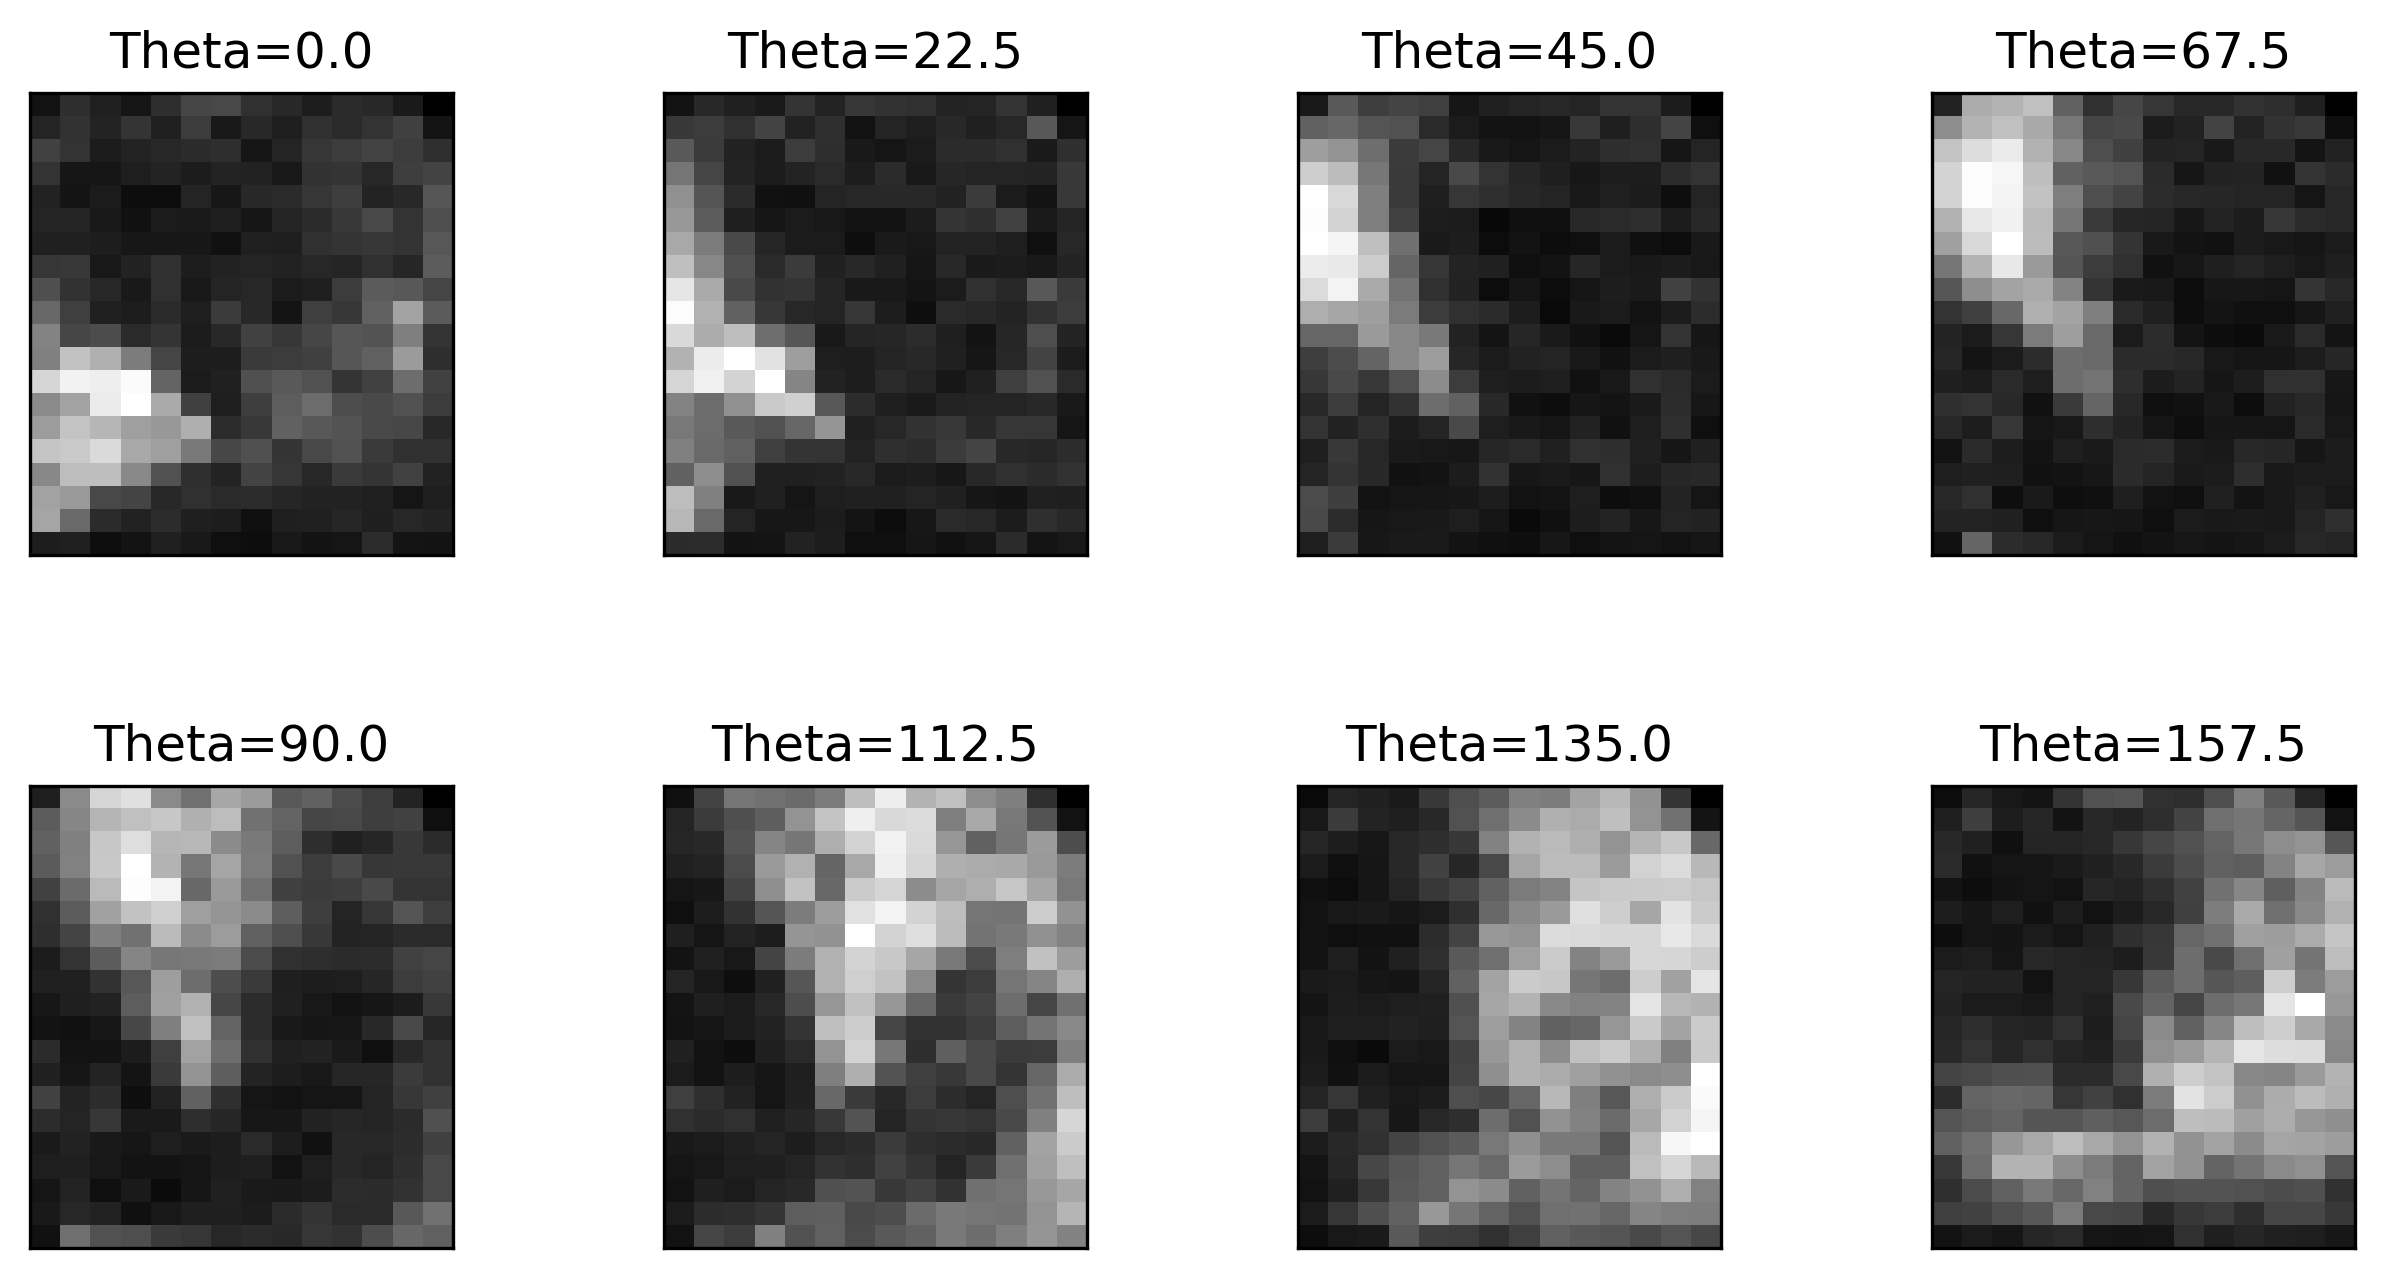
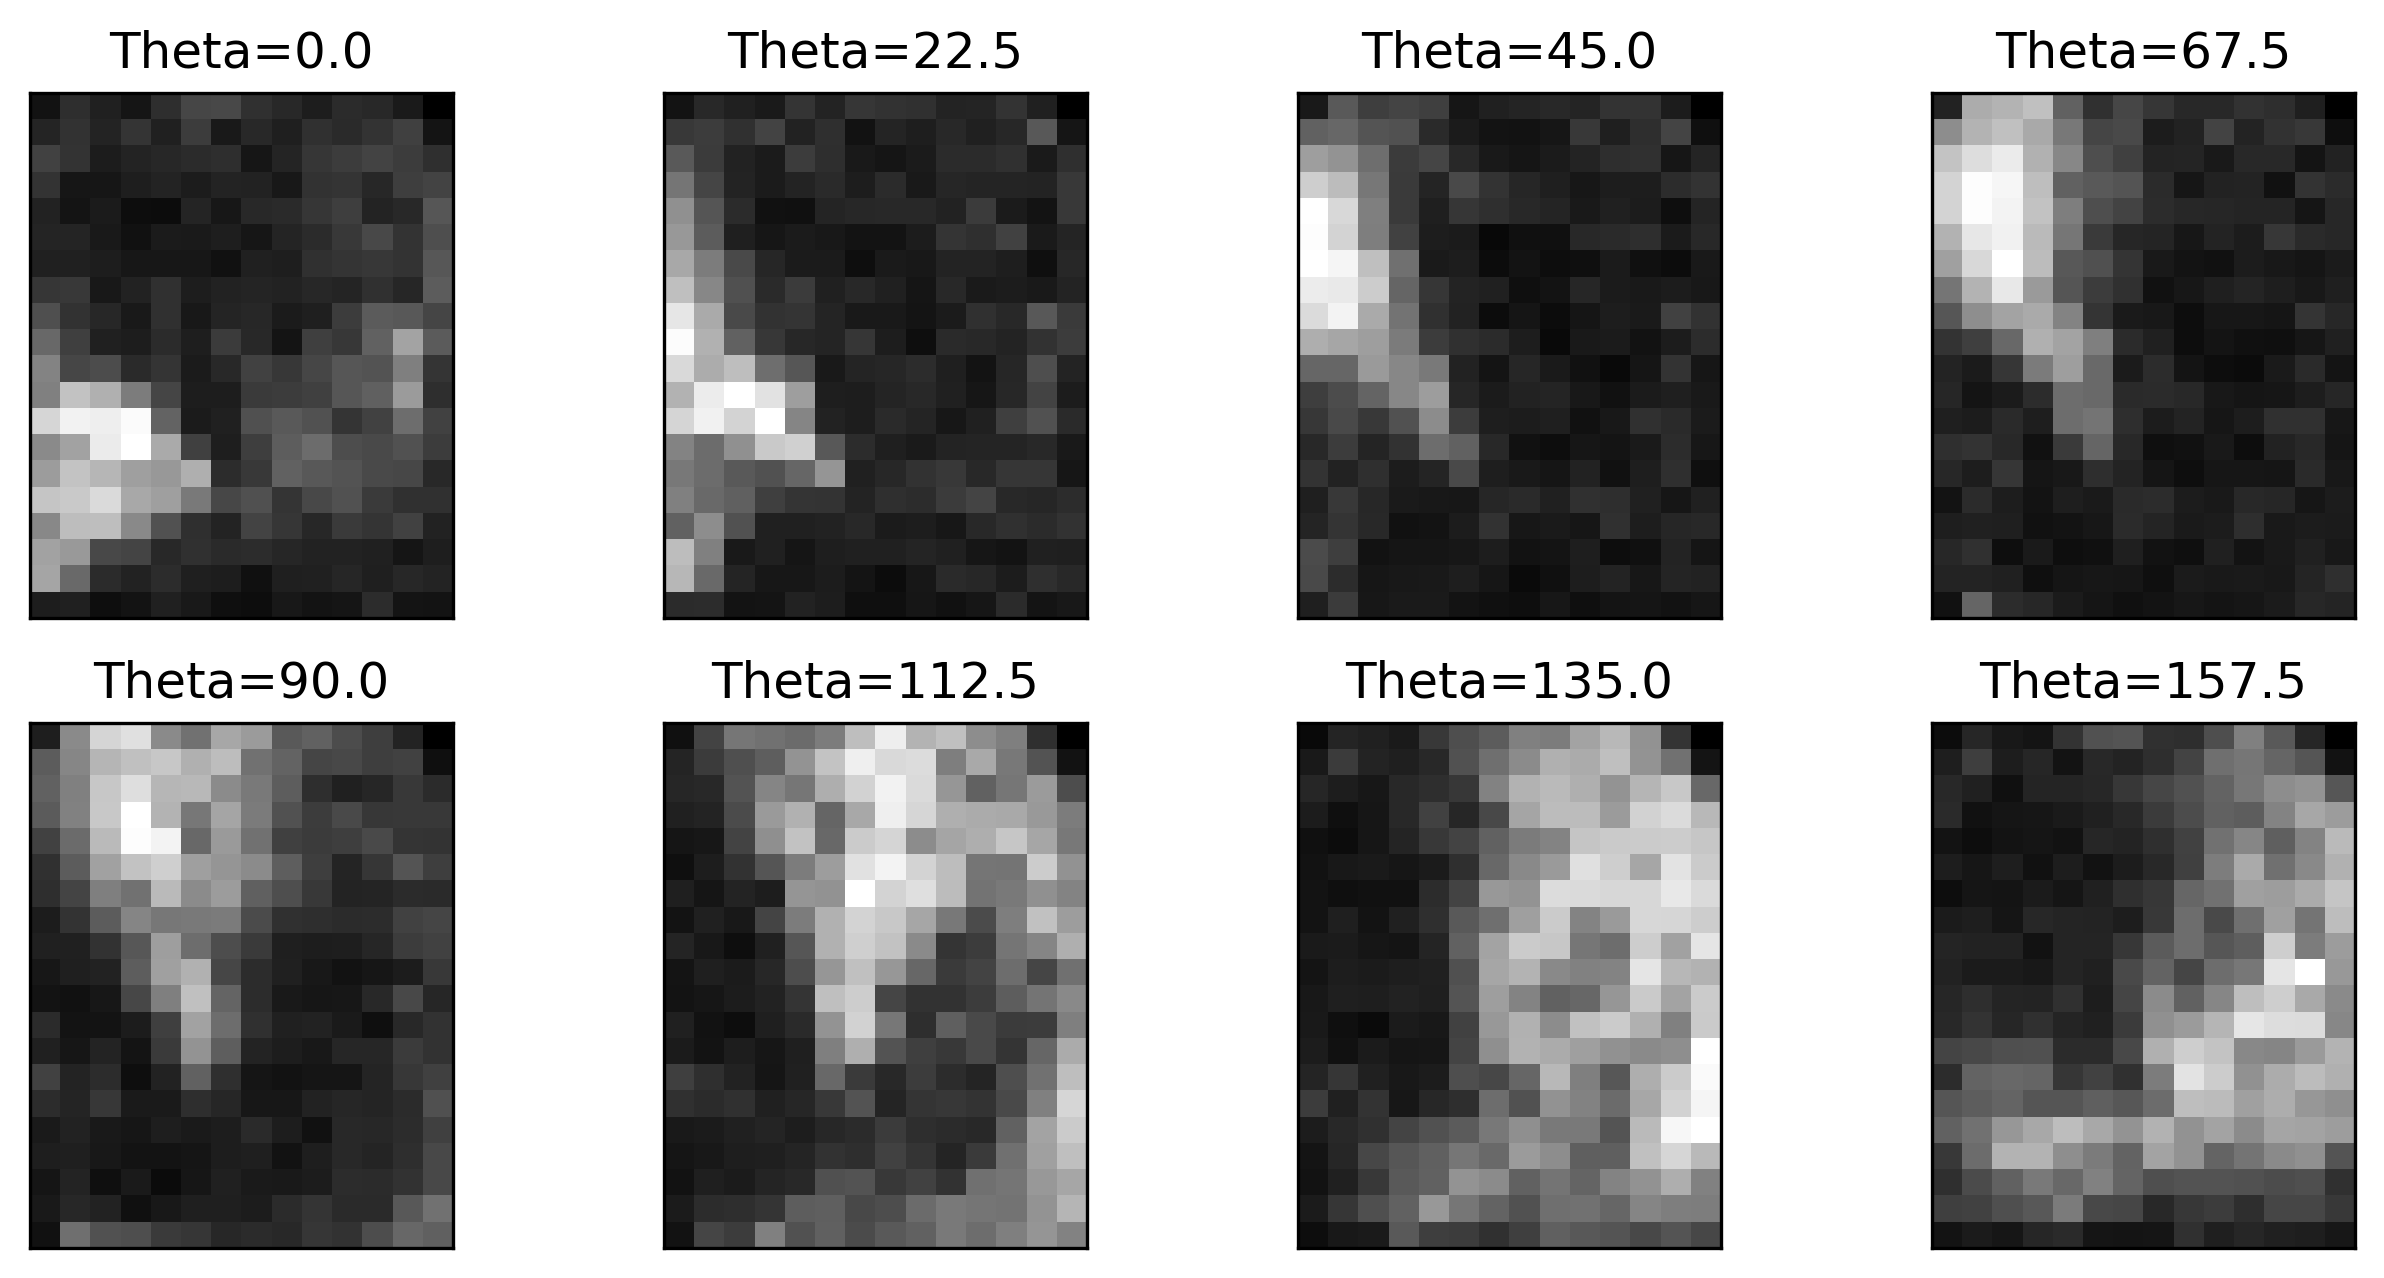
Fixed AAD Visualization

diff --git a/main.py b/main.py
@@ -259,7 +259,7 @@ class Visualizer:
             if titles and i < len(titles):
                 ax.set_title(titles[i], fontsize=12, color='black', pad=6)
 
-        plt.subplots_adjust(wspace=0.5, hspace=0.5)  # Adjust spacing for exact look
+        plt.subplots_adjust(wspace=0.5, hspace=0.2)  # Adjust spacing
 
         if filepath_to_save is not None:
             plt.savefig(filepath_to_save, dpi=300, bbox_inches='tight')
